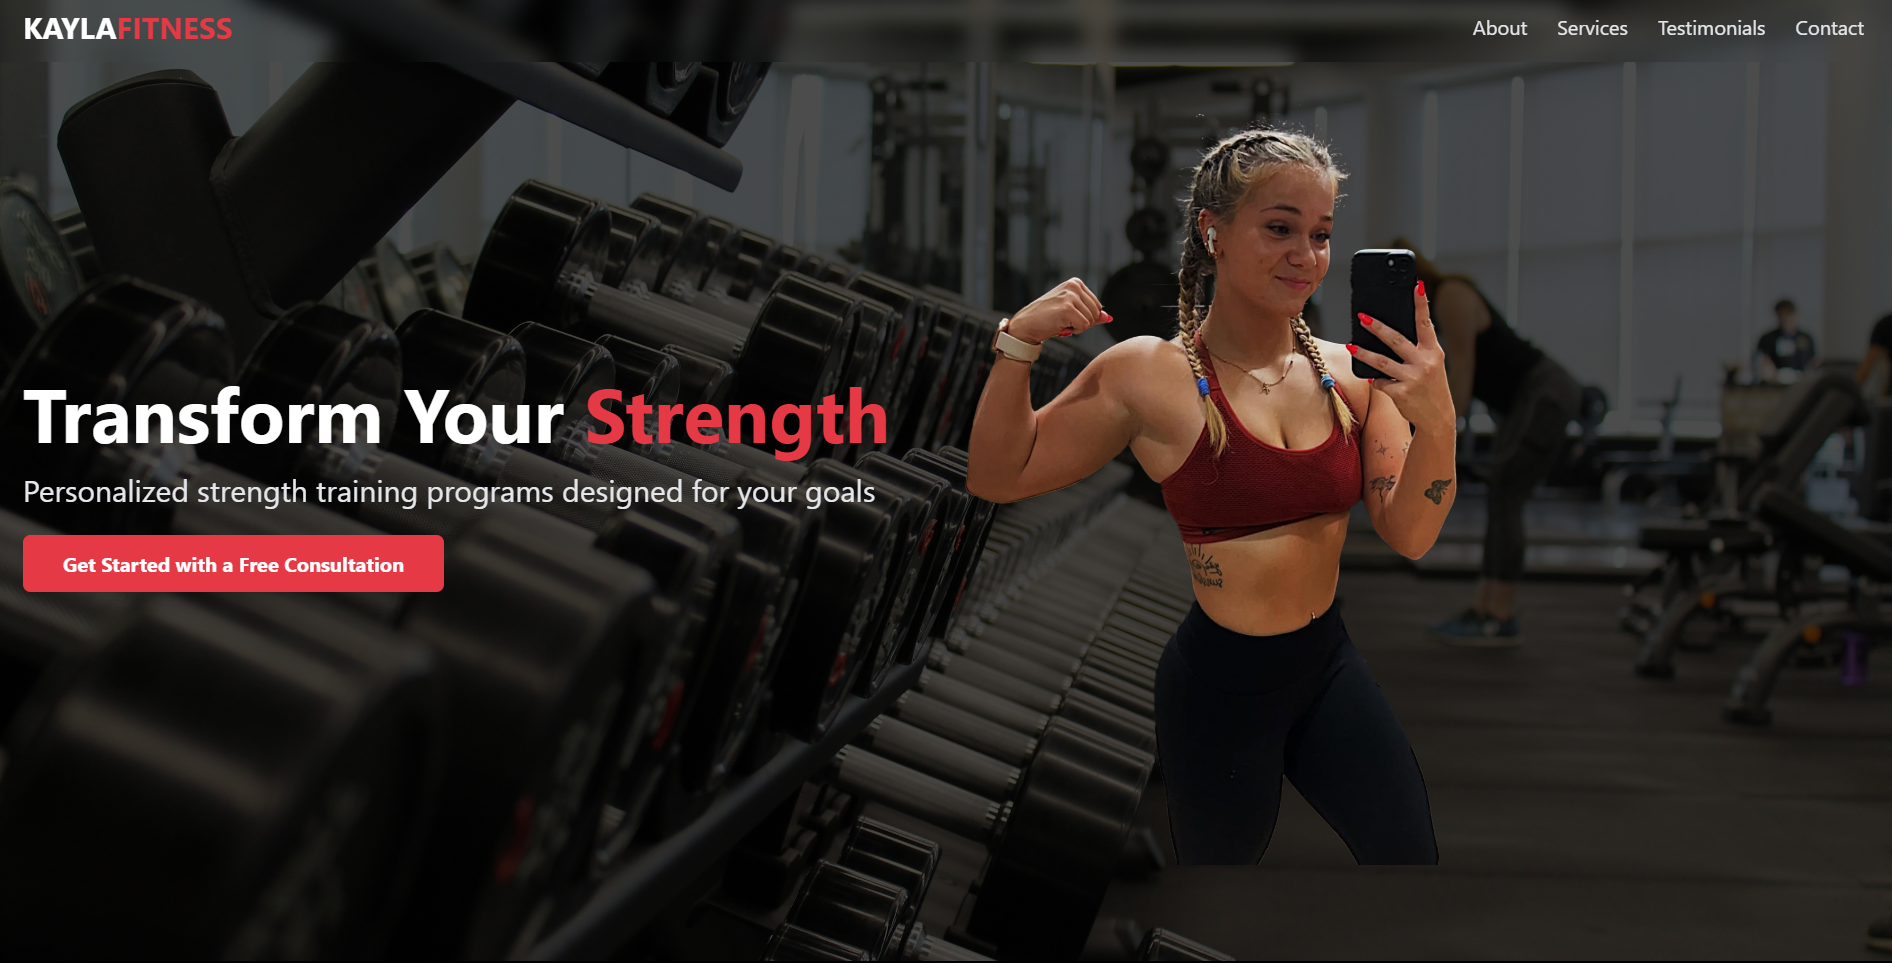
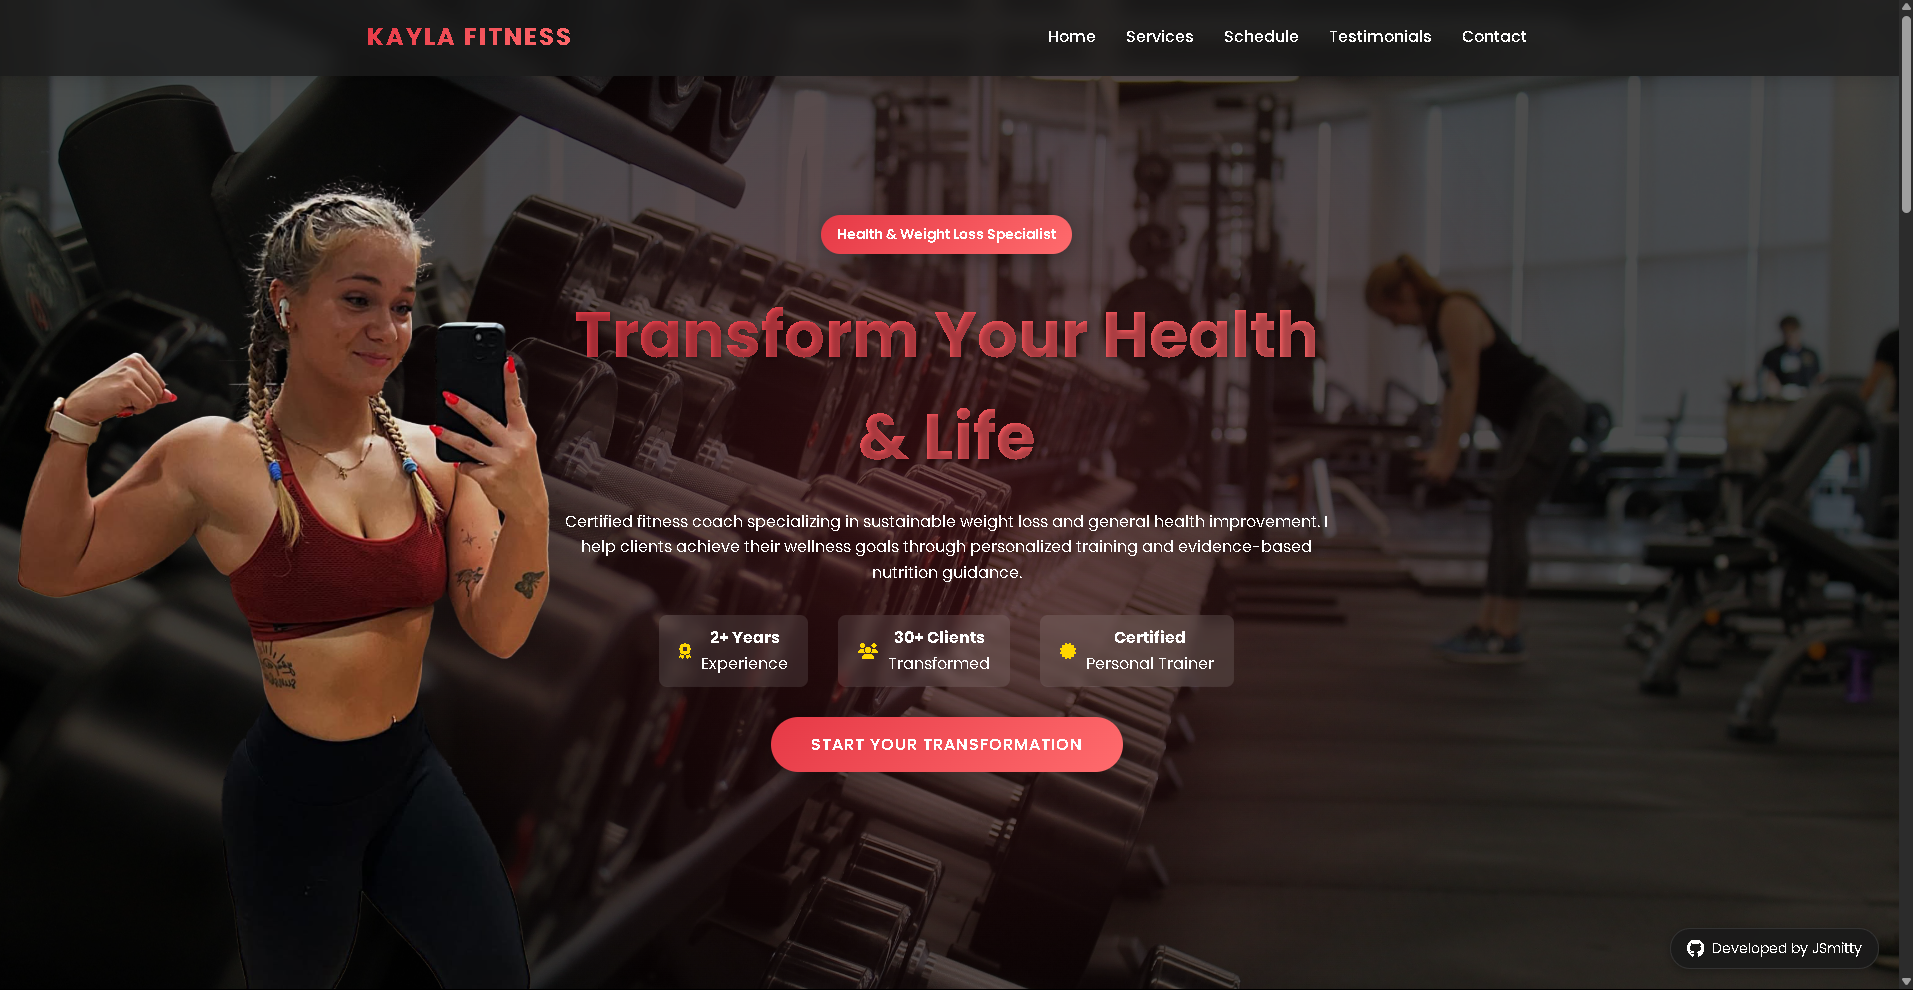
feat: add developer attribution and update project content
- Add DeveloperAttribution component with GitHub link
- Update project screenshots and descriptions
- Add work experience data structure
- Enhance testimonials with gradient styling
- Refactor Experience component

diff --git a/src/data/projectData.js b/src/data/projectData.js
@@ -1,48 +1,48 @@
 const projectData = [
     {
         id: 1,
-        name: "SkyCast",
-        description: "Weather application displaying current and upcoming forecasts with location search. Features clean interface design and saves user preferences locally.",
-        tech: ["JavaScript", "CSS", "Local Storage"],
-        image: "/skycast.png",
-        github: "https://github.com/JacobSmxth/SkyCast",
-        live: "https://JacobSmxth.github.io/SkyCast",
+        name: "Vogue Vistas",
+        description: "A sophisticated e-commerce platform built with modern web technologies. Features include dynamic product filtering, secure shopping cart functionality, seamless checkout process, and real-time inventory management. The site implements responsive design principles ensuring optimal viewing experience across desktop, tablet, and mobile devices.",
+        tech: ["React", "Material UI", "Next.js", "Redux"],
+        image: "/voguevistas.png",
+        github: "https://github.com/JacobSmxth/urban-style",
+        live: "https://voguevistas.netlify.app/",
     },
     {
         id: 2,
         name: "Portfolio",
-        description: "Personal website showcasing development projects and skills. Built with React components and responsive Tailwind styling for all device sizes.",
+        description: "A dynamic personal portfolio showcasing my development journey and technical expertise. Features include smooth scroll animations, dark/light mode theming, interactive project galleries, and a contact form with form validation. Built with modern React practices and styled using Tailwind CSS for a polished, professional appearance.",
         tech: ["React", "Tailwind CSS"],
         image: "/portfolio.png",
-        github: "https://github.com/JacobSmxth/jsmitty-portfolio",
+        github: "https://github.com/JacobSmxth/jsmitty-portfolio", 
         live: "https://www.jsmitty.com/",
     },
     {
         id: 3,
-        name: "Kayla Fitness",
-        description: "Fitness website for Kayla Smith, an Athletic trainer from the Alpharetta area. Built with HTML, TailwindCSS, and JS. More of a landing page than aything.",
-        tech: ["HTML", "Tailwind CSS", "JavaScript"],
-        image: "/kaylafitness.png",
-        github: "https://github.com/JacobSmxth/kayla-fitness-website",
-        live: "https://jacobsmxth.github.io/kayla-fitness-website/",
-    },
-    {
-        id: 4,
         name: "Coffee Haven",
-        description: "A modern coffee shop website showcasing menu items, about section, and contact information. Built with HTML, CSS, and JavaScript for a smooth user experience.",
+        description: "An immersive coffee shop website that brings the café experience online. Features include an interactive menu with detailed product descriptions, online ordering system, customer testimonials, and an engaging about section highlighting the shop's story. Implements smooth animations and parallax scrolling effects for an enhanced user experience.",
         tech: ["React", "Tailwind CSS"],
         image: "/coffeehaven.png",
         github: "https://github.com/JacobSmxth/coffee-haven",
         live: "https://coffeehaven.netlify.app/",
     },
     {
+        id: 4,
+        name: "SkyCast",
+        description: "A comprehensive weather application providing real-time meteorological data and forecasts. Features include detailed 7-day forecasts, hourly predictions, severe weather alerts, and customizable location tracking. Utilizes local storage for saving favorite locations and user preferences, while maintaining a clean, intuitive interface.",
+        tech: ["JavaScript", "CSS", "Local Storage"],
+        image: "/skycast.png",
+        github: "https://github.com/JacobSmxth/SkyCast",
+        live: "https://JacobSmxth.github.io/SkyCast",
+    },
+    {
         id: 5,
-        name: "Vogue Vistas",
-        description: "An e-commerce website showcasing fashion products with a modern and elegant design. Features product browsing and responsive layout for all devices.",
-        tech: ["React", "Material UI", "Next.js", "Redux"],
-        image: "/voguevistas.png",
-        github: "https://github.com/JacobSmxth/urban-style",
-        live: "https://voguevistas.netlify.app/",
+        name: "Kayla Fitness",
+        description: "A professional landing page for Alpharetta-based Athletic Trainer Kayla Smith. Features include an interactive schedule booking system, detailed service descriptions, client testimonials, and before/after transformation galleries. The responsive design ensures seamless viewing across all devices, while subtle animations enhance user engagement.",
+        tech: ["HTML", "CSS", "JavaScript"],
+        image: "/kaylafitness.png",
+        github: "https://github.com/JacobSmxth/kayla-fitness-website",
+        live: "https://jacobsmxth.github.io/kayla-fitness-website/",
     }
 ]
 

diff --git a/src/components/Experience.jsx b/src/components/Experience.jsx
@@ -1,31 +1,8 @@
 import { motion } from 'framer-motion';
 import { FaBriefcase, FaCalendarAlt } from 'react-icons/fa';
+import { workExperience } from '../data/workExperience';
 
 const Experience = () => {
-  const experiences = [
-    {
-      id: 1,
-      title: "Frontend Developer",
-      company: "Freelance",
-      period: "2025 - Present",
-      description: "Design and develop responsive, accessible web applications using React, Next.js, and Tailwind CSS. Collaborate with cross-functional teams to deliver high-quality digital solutions, resulting in measurable improvements in user engagement."
-    },
-    {
-      id: 2,
-      title: "Stringer / String Lead",
-      company: "Tennis Warehouse",
-      period: "2023 - Present",
-      description: "Spearheaded the development of client-facing web applications with cutting-edge frontend technologies. Partnered with designers and marketing teams to implement pixel-perfect, high-performance interfaces that boosted conversion rates."
-    },
-    {
-      id: 3,
-      title: "Crew Member / Shift Lead",
-      company: "Dunkin Donuts",
-      period: "2021 - 2023",
-      description: "Managed daily operations and led a team in a fast-paced environment while independently conceptualizing and executing digital solutions. Enhanced local brand visibility and customer engagement through effective online strategies."
-    }
-  ];
-
   return (
     <div className="py-10">
       <motion.h2 
@@ -37,29 +14,35 @@ const Experience = () => {
         Work Experience
       </motion.h2>
       
-      <div className="max-w-3xl mx-auto">
-        {experiences.map((job, index) => (
+      <div className="max-w-4xl mx-auto">
+        {workExperience.map((job, index) => (
           <motion.div
             key={job.id}
             initial={{ opacity: 0, x: index % 2 === 0 ? -50 : 50 }}
             whileInView={{ opacity: 1, x: 0 }}
             viewport={{ once: true }}
             transition={{ delay: index * 0.2 }}
-            className="mb-10 relative pl-8 border-l-2 border-blue-500 dark:border-blue-400"
+            className="mb-12 relative pl-8 border-l-2 border-blue-500 dark:border-blue-400"
           >
             <div className="absolute -left-3 top-0 bg-blue-500 dark:bg-blue-400 rounded-full p-2">
               <FaBriefcase className="text-white" />
             </div>
             
-            <h3 className="text-xl font-bold text-gray-200 dark:text-gray-200">{job.title}</h3>
+            <h3 className="text-2xl font-bold text-gray-200 dark:text-gray-200">{job.title}</h3>
             <h4 className="text-lg text-blue-400 dark:text-blue-300 mb-1">{job.company}</h4>
             
-            <div className="flex items-center text-gray-400 dark:text-gray-400 text-sm mb-3">
+            <div className="flex items-center text-gray-400 dark:text-gray-400 text-sm mb-4">
               <FaCalendarAlt className="mr-2" />
               <span>{job.period}</span>
             </div>
             
-            <p className="text-gray-300 dark:text-gray-300">{job.description}</p>
+            <ul className="list-disc list-inside space-y-2">
+              {job.description.map((bullet, i) => (
+                <li key={i} className="text-gray-300 dark:text-gray-300">
+                  {bullet}
+                </li>
+              ))}
+            </ul>
           </motion.div>
         ))}
       </div>

diff --git a/src/data/testimonials.js b/src/data/testimonials.js
@@ -1,25 +1,25 @@
 const testimonials = [
     {
       id: 1,
-      text: "Error 404: Testimonials Not Found. But trust me, Jacob is awesome.",
-      author: "System Admin",
-      position: "Internet Overlord",
-      gradient: "from-blue-500 to-cyan-400",
-      contactGradient: "from-blue-600/20 to-cyan-600/20"
-    },
-    {
-      id: 2,
-      text: "Error 500: Too much talent. Jacob's skills caused an overflow.",
-      author: "Server Logs",
-      position: "AI Witness",
+      text: "Jacob created an awesome website that really shows what my training is all about. The site looks great on phones and computers, and makes it super easy for my clients to check out my services and book sessions.",
+      author: "Kayla Smith", 
+      position: "Athletic Trainer",
       gradient: "from-purple-500 to-indigo-500",
       contactGradient: "from-purple-600/20 to-indigo-600/20"
     },
     {
+      id: 2,
+      text: "Jacob developed our weather app SkyCast with exceptional attention to detail. The clean interface and local storage implementation made it incredibly user-friendly.",
+      author: "Weather App User",
+      position: "SkyCast Beta Tester",
+      gradient: "from-blue-500 to-cyan-400",
+      contactGradient: "from-blue-600/20 to-cyan-600/20"
+    },
+    {
       id: 3,
-      text: "Warning: Working with Jacob may result in uncontrollable satisfaction and project success.",
-      author: "Compiler",
-      position: "Bug Exterminator",
+      text: "The website Jacob built for us is really easy to use and looks great. The shopping cart works smoothly and I love how I can see all the products clearly on my phone or computer.",
+      author: "Fashion Industry Client", 
+      position: "E-commerce Manager",
       gradient: "from-green-500 to-teal-400",
       contactGradient: "from-green-600/20 to-teal-600/20"
     }

diff --git a/src/data/workExperience.js b/src/data/workExperience.js
@@ -1,0 +1,38 @@
+export const workExperience = [
+  {
+    id: 1,
+    title: "Frontend Developer",
+    company: "Freelance",
+    period: "2025 - Present",
+    description: [
+      "Develop and maintain responsive web applications using React, Next.js, and Tailwind CSS",
+      "Implement modern UI/UX designs with a focus on accessibility and performance optimization",
+      "Collaborate with clients to translate business requirements into technical solutions",
+      "Utilize version control (Git) and modern development workflows to ensure code quality"
+    ]
+  },
+  {
+    id: 2,
+    title: "Lead Checker",
+    company: "Tennis Warehouse",
+    period: "2023 - Present", 
+    description: [
+      "Perform final quality control checks on strung tennis racquets before customer delivery",
+      "Review 15+ racquets daily for proper string tension, pattern accuracy and customization specs",
+      "Document and report quality issues to help improve stringing team performance",
+      "Assist with inventory management and maintain detailed records of string and grip stock"
+    ]
+  },
+  {
+    id: 3,
+    title: "Crew Member / Shift Lead",
+    company: "Dunkin Donuts",
+    period: "2021 - 2023",
+    description: [
+      "Supervised and coordinated 2-3 team members during peak hours to maintain efficient operations",
+      "Managed cash handling and daily sales reconciliation with 100% accuracy",
+      "Trained new employees on company procedures, food safety, and customer service standards",
+      "Maintained store cleanliness and inventory levels while adhering to food safety regulations"
+    ]
+  }
+]; 

diff --git a/src/components/DeveloperAttribution.jsx b/src/components/DeveloperAttribution.jsx
@@ -1,0 +1,18 @@
+import React from 'react';
+import { FaGithub } from 'react-icons/fa';
+
+const DeveloperAttribution = () => {
+  return (
+    <a
+      href="https://github.com/jacobsmxth"
+      className="fixed bottom-5 right-5 bg-gradient-to-r from-blue-600/90 to-blue-500/90 backdrop-blur-md border border-blue-400/20 px-4 py-2 rounded-full text-white text-sm flex items-center gap-2 transition-all duration-300 hover:-translate-y-0.5 hover:from-blue-500 hover:to-blue-400 hover:shadow-lg hover:shadow-blue-500/20 z-50"
+      target="_blank"
+      rel="noopener noreferrer"
+    >
+      <FaGithub className="text-lg" />
+      <span>Developed by Jacob Smith</span>
+    </a>
+  );
+};
+
+export default DeveloperAttribution; 

diff --git a/src/App.jsx b/src/App.jsx
@@ -5,6 +5,7 @@ import Header from './components/Header';
 import Footer from './components/Footer';
 import SkillsTicker from './components/SkillsTicker';
 import LoadingScreen from './components/LoadingScreen';
+import DeveloperAttribution from './components/DeveloperAttribution';
 import HomePage from './pages/HomePage';
 import ServicesPage from './pages/ServicesPage';
 import ContactPage from './pages/ContactPage';
@@ -87,6 +88,7 @@ function App() {
                 
                 <SkillsTicker />
                 <Footer />
+                <DeveloperAttribution />
                 
                 <AnimatePresence>
                   {showScrollTop && (
